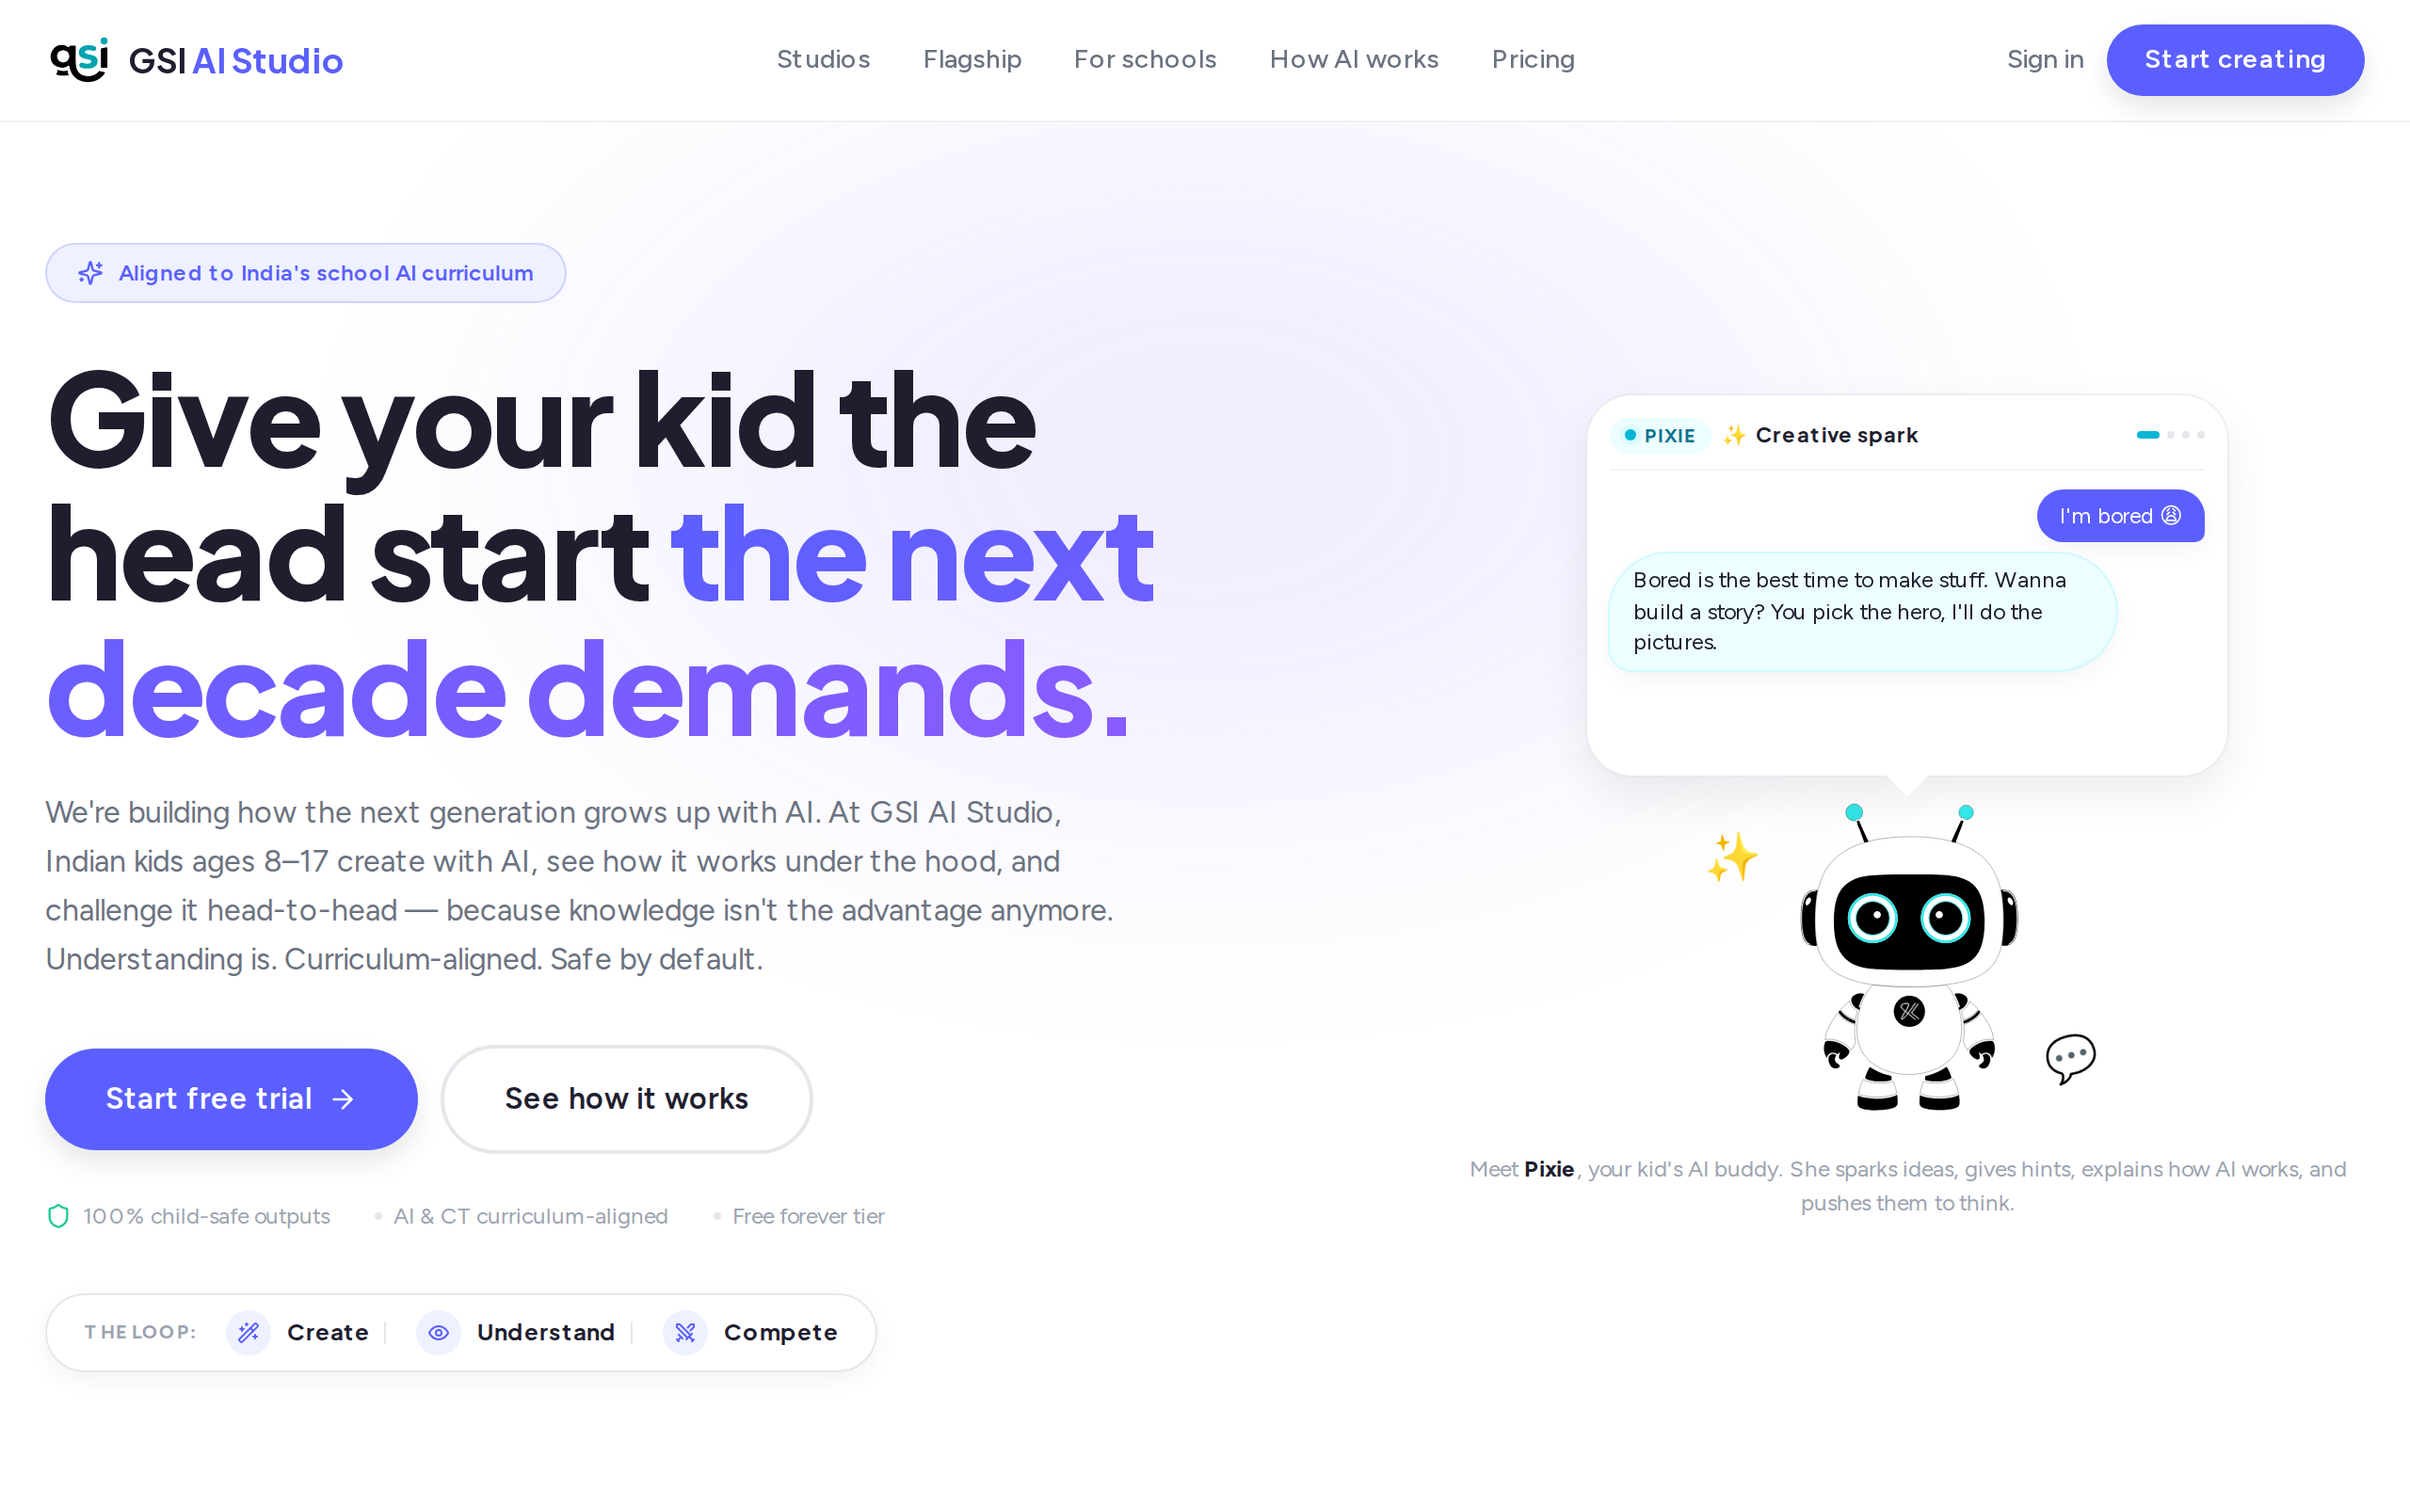
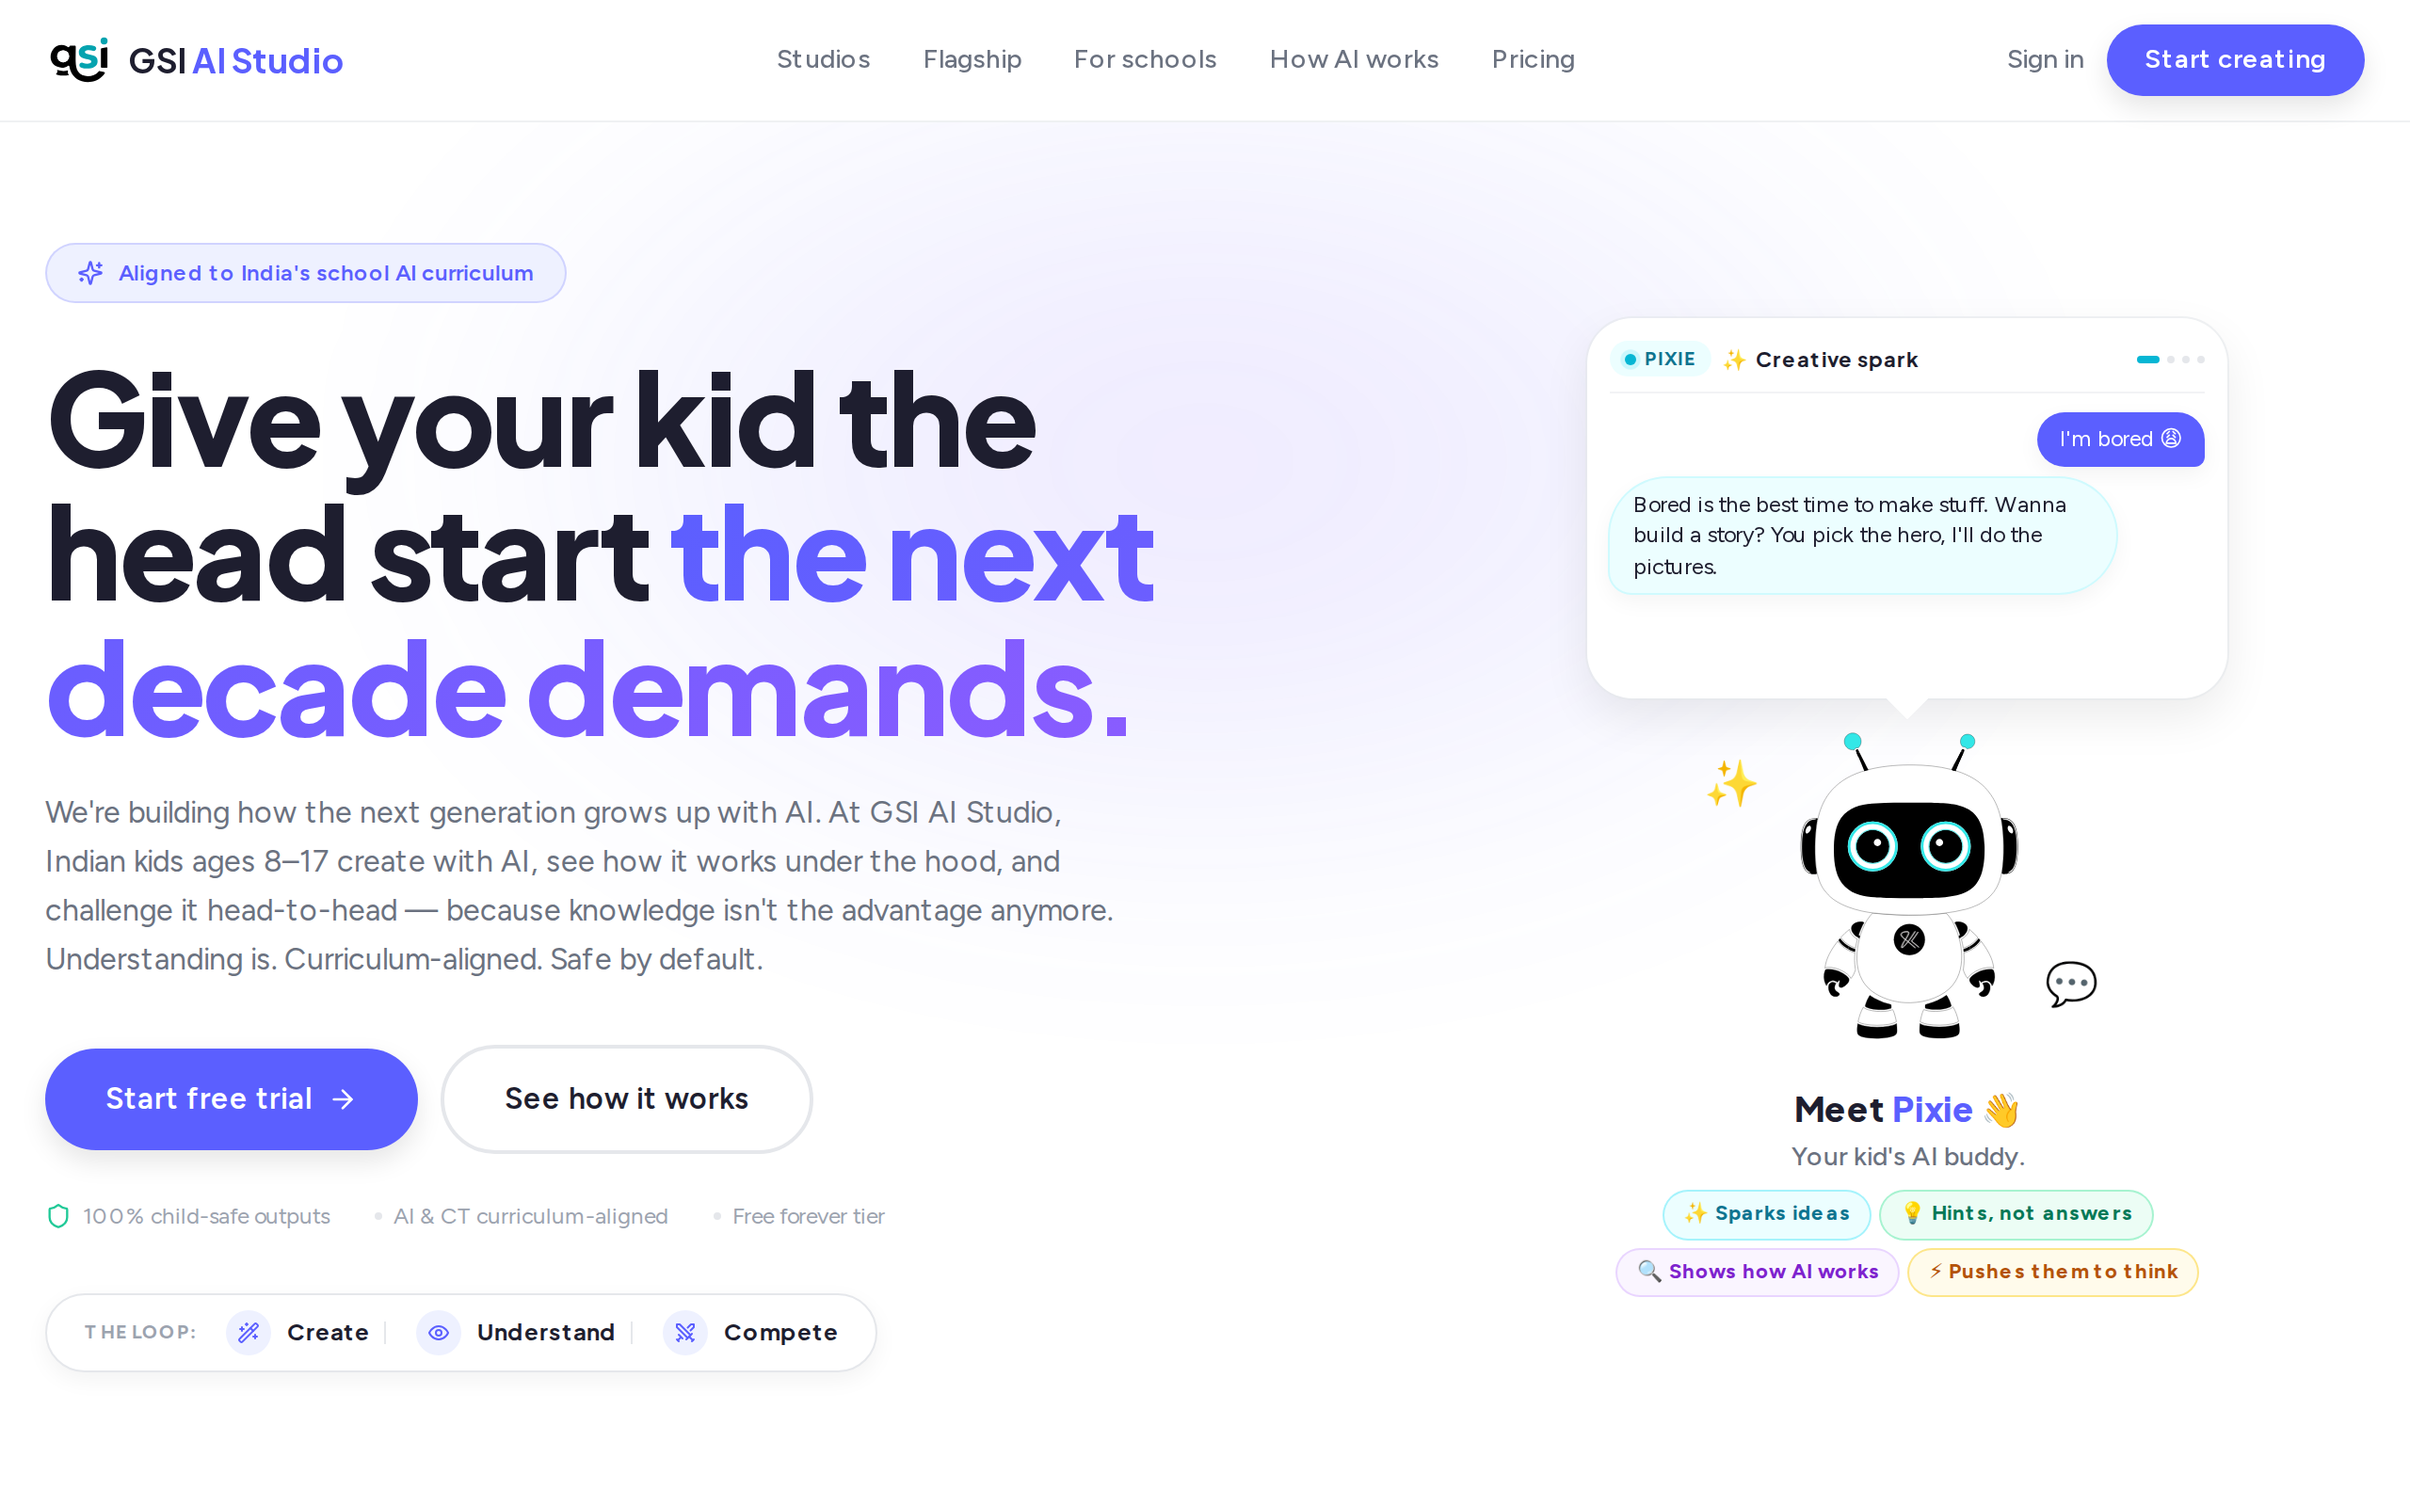
MARKETING-HERO: stronger Pixie role callout (replaces small caption)
The previous caption rendered at text-caption muted — easy to miss
for parents skimming and basically invisible to younger kids. Replace
it with a louder block:

- Headline line: 'Meet Pixie 👋' (text-base/text-lg, extrabold,
  Pixie's name in brand-primary)
- Subline: 'Your kid's AI buddy.' (text-sm, medium weight)
- 4 colored role chips below — one per chat scene — so visitors
  scan Pixie's value props in 1 second:
    ✨ Sparks ideas (cyan)
    💡 Hints, not answers (emerald)
    🔍 Shows how AI works (purple)
    ⚡ Pushes them to think (amber)

The chips do double duty: each is the same colour as the brand-section
they map to in the rest of the page (cyan = creativity, amber = Beat
the AI, etc.) so the design feels coherent.

diff --git a/components/marketing/Hero.tsx b/components/marketing/Hero.tsx
@@ -348,10 +348,33 @@ function BrandMascotHero() {
         </motion.span>
       </motion.div>
 
-      {/* Caption */}
-      <p className="mt-1 text-center text-caption text-brand-text-muted">
-        Meet <span className="font-bold text-brand-text">{mascot.name}</span>, your kid&apos;s AI buddy. She sparks ideas, gives hints, explains how AI works, and pushes them to think.
-      </p>
+      {/* Pixie role callout — replaces the small caption with a more
+          legible 2-line block + a visible chip strip of her four roles.
+          Sized so younger kids and skim-reading parents both catch it. */}
+      <div className="mt-2 flex w-full max-w-[360px] flex-col items-center gap-2 text-center">
+        <div>
+          <p className="font-display text-base font-extrabold text-brand-text sm:text-lg">
+            Meet <span className="text-brand-primary">Pixie</span> <span aria-hidden>👋</span>
+          </p>
+          <p className="mt-0.5 text-sm font-medium text-brand-text-secondary">
+            Your kid&apos;s AI buddy.
+          </p>
+        </div>
+        <div className="flex flex-wrap items-center justify-center gap-1.5">
+          <span className="rounded-full bg-cyan-50 px-2.5 py-1 text-[11px] font-bold text-cyan-700 ring-1 ring-cyan-200">
+            ✨ Sparks ideas
+          </span>
+          <span className="rounded-full bg-emerald-50 px-2.5 py-1 text-[11px] font-bold text-emerald-700 ring-1 ring-emerald-200">
+            💡 Hints, not answers
+          </span>
+          <span className="rounded-full bg-purple-50 px-2.5 py-1 text-[11px] font-bold text-purple-700 ring-1 ring-purple-200">
+            🔍 Shows how AI works
+          </span>
+          <span className="rounded-full bg-amber-50 px-2.5 py-1 text-[11px] font-bold text-amber-700 ring-1 ring-amber-200">
+            ⚡ Pushes them to think
+          </span>
+        </div>
+      </div>
     </motion.div>
   );
 }
